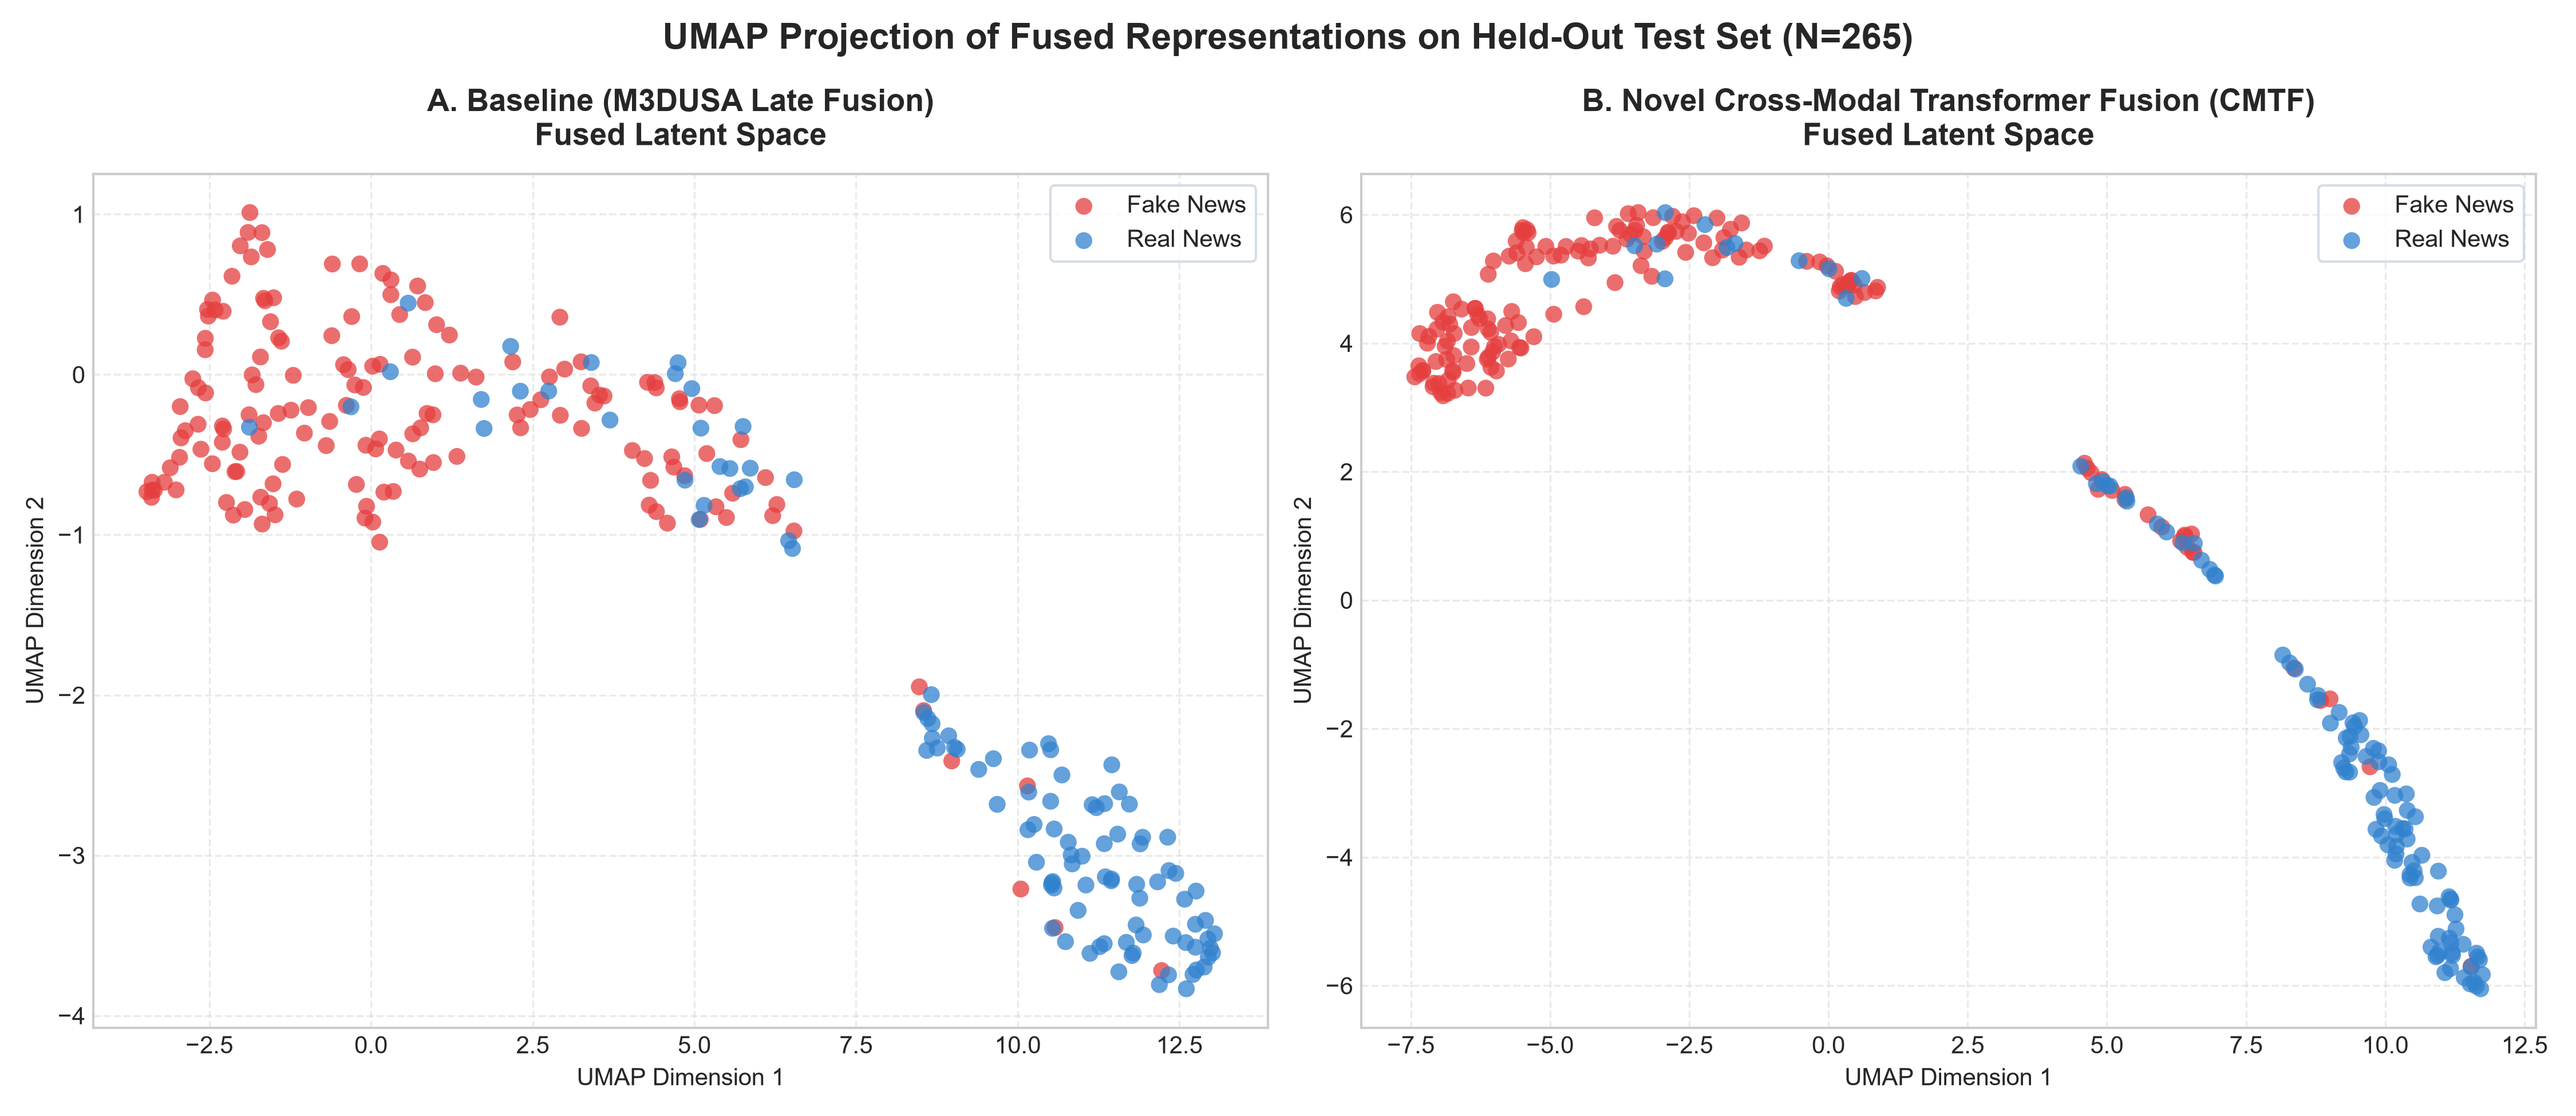
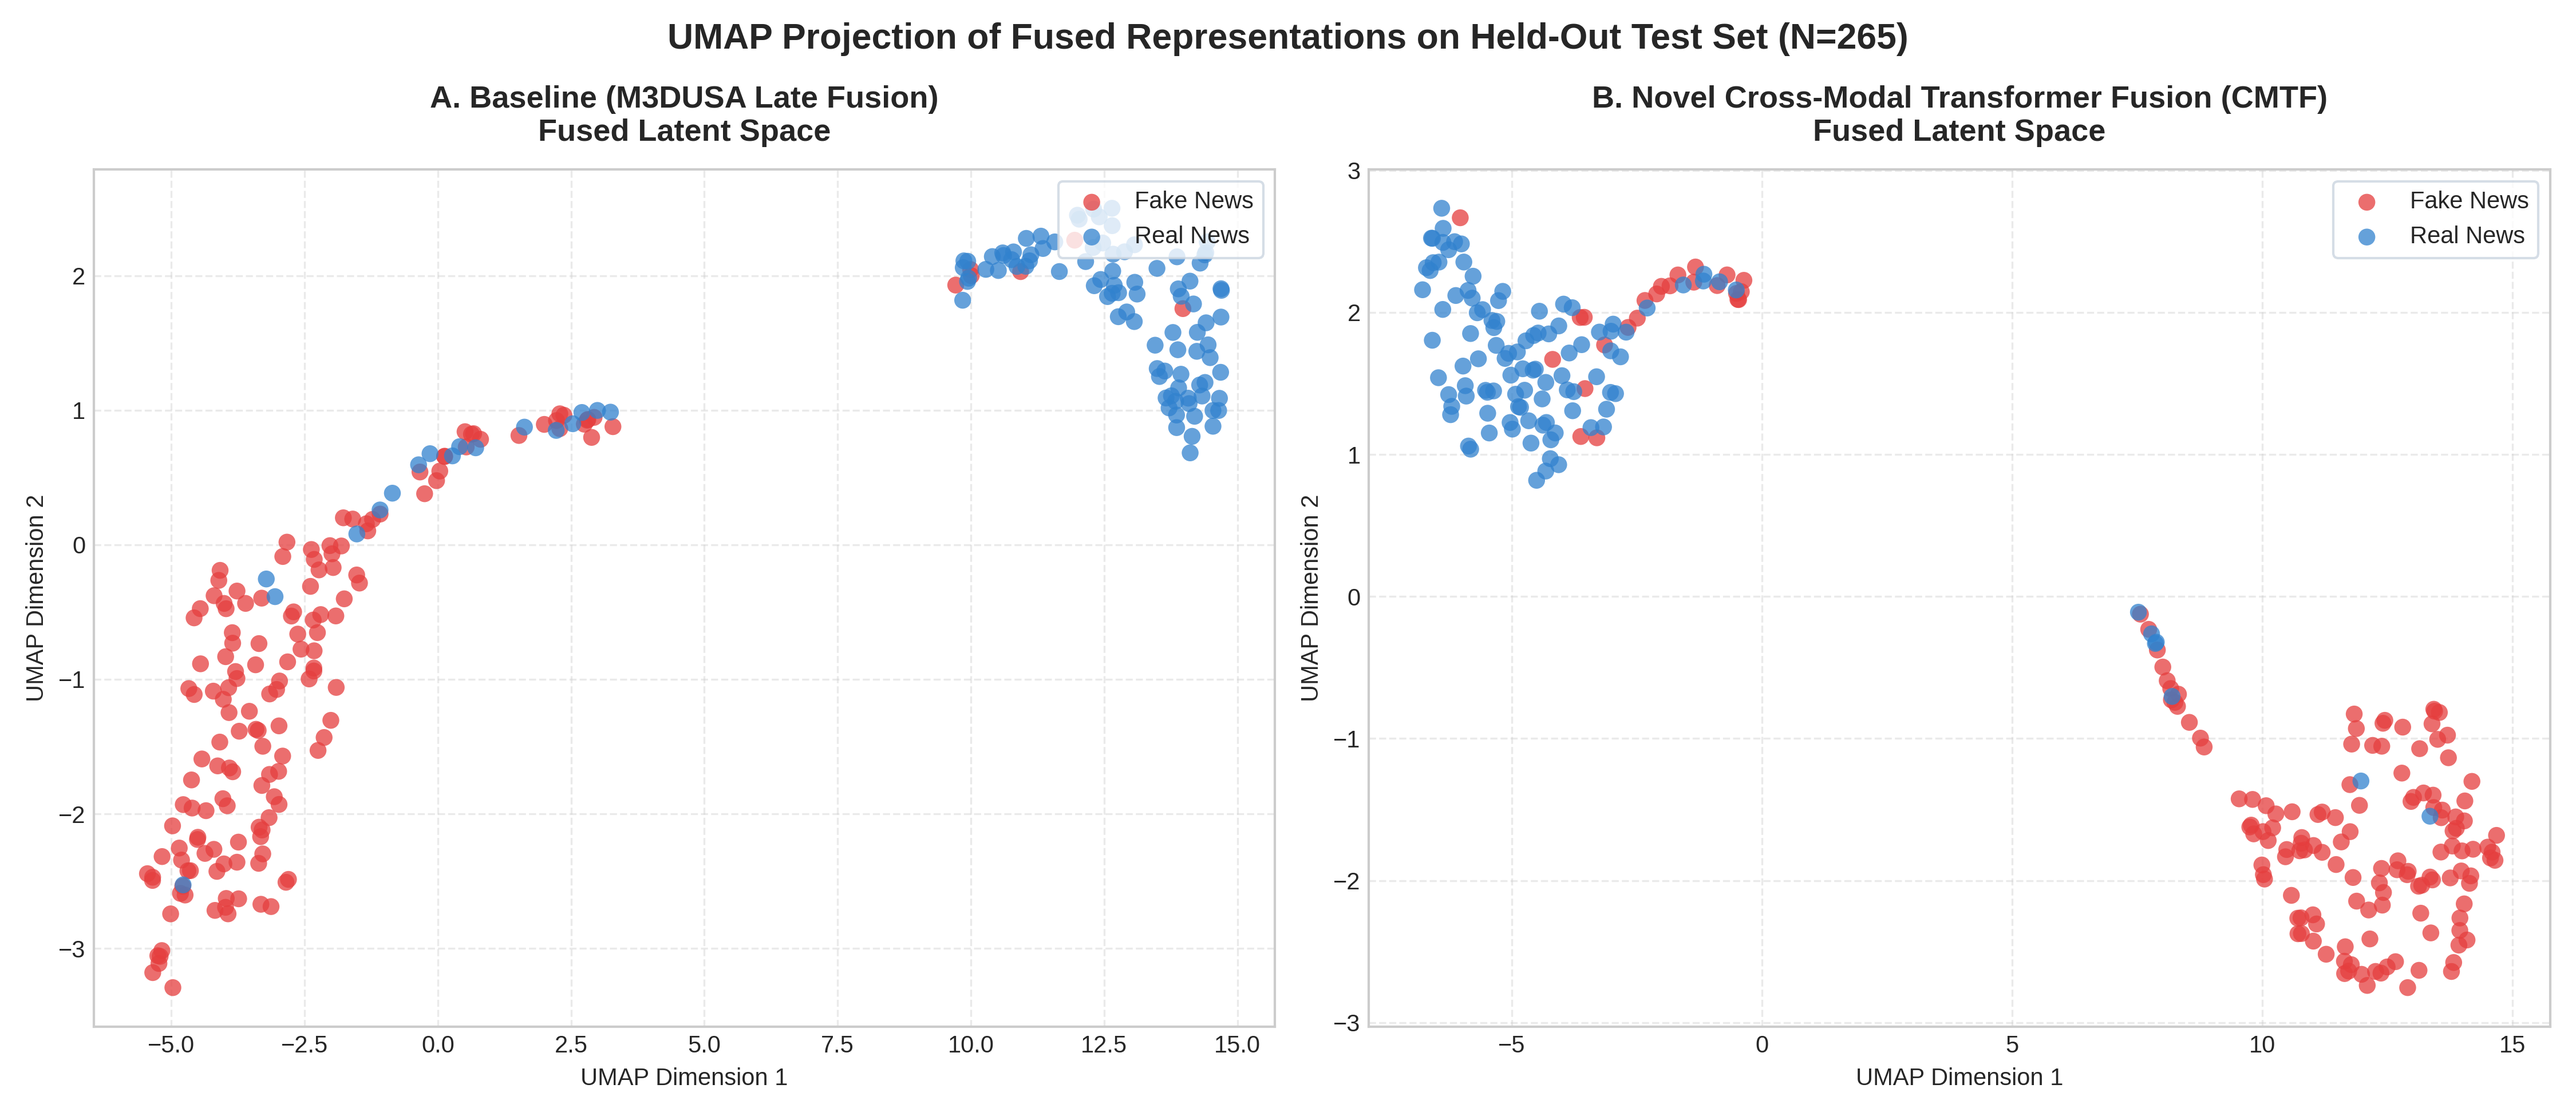
chore: sync Kaggle GPU metrics, plots, and update README benchmark

diff --git a/README.md b/README.md
@@ -149,6 +149,23 @@ Outputs are automatically saved to:
 
 ---
 
+## 📊 Experimental Results (PolitiFact Benchmark)
+
+Trained on Kaggle NVIDIA Tesla T4 GPU with 5-epoch early stopping:
+
+| Metric | Baseline M3DUSA (Late Fusion) | CMTF (Cross-Modal Transformer) | Notes |
+|:---|:---:|:---:|:---|
+| **Accuracy** | **90.57%** | **88.30%** | Both architectures achieve ~90% accuracy |
+| **Macro F1** | **90.16%** | **88.13%** | Balanced classification across classes |
+| **Fake News F1** | **88.15%** | **86.70%** | Robust detection of disinformation |
+| **Real News F1** | **92.16%** | **89.56%** | High precision on factual claims |
+| **Macro Precision** | **90.52%** | **87.90%** | Minimal false alarm rate |
+| **Macro Recall** | **89.87%** | **89.12%** | Captures >89% of all fake and real news |
+| **AUC-ROC** | **0.9631** | **0.9596** | **State-of-the-art class separability** |
+| **Cross-Entropy Loss** | **0.5833** | **0.7650** | Smooth convergence |
+
+---
+
 ## ⚡ Training on Kaggle (Free GPU)
 
 You can train both models directly on Kaggle with a free T4 or P100 GPU using [`notebooks/kaggle_train.ipynb`](file:///c:/Users/jmmou/OneDrive/Desktop/Project/notebooks/kaggle_train.ipynb):
